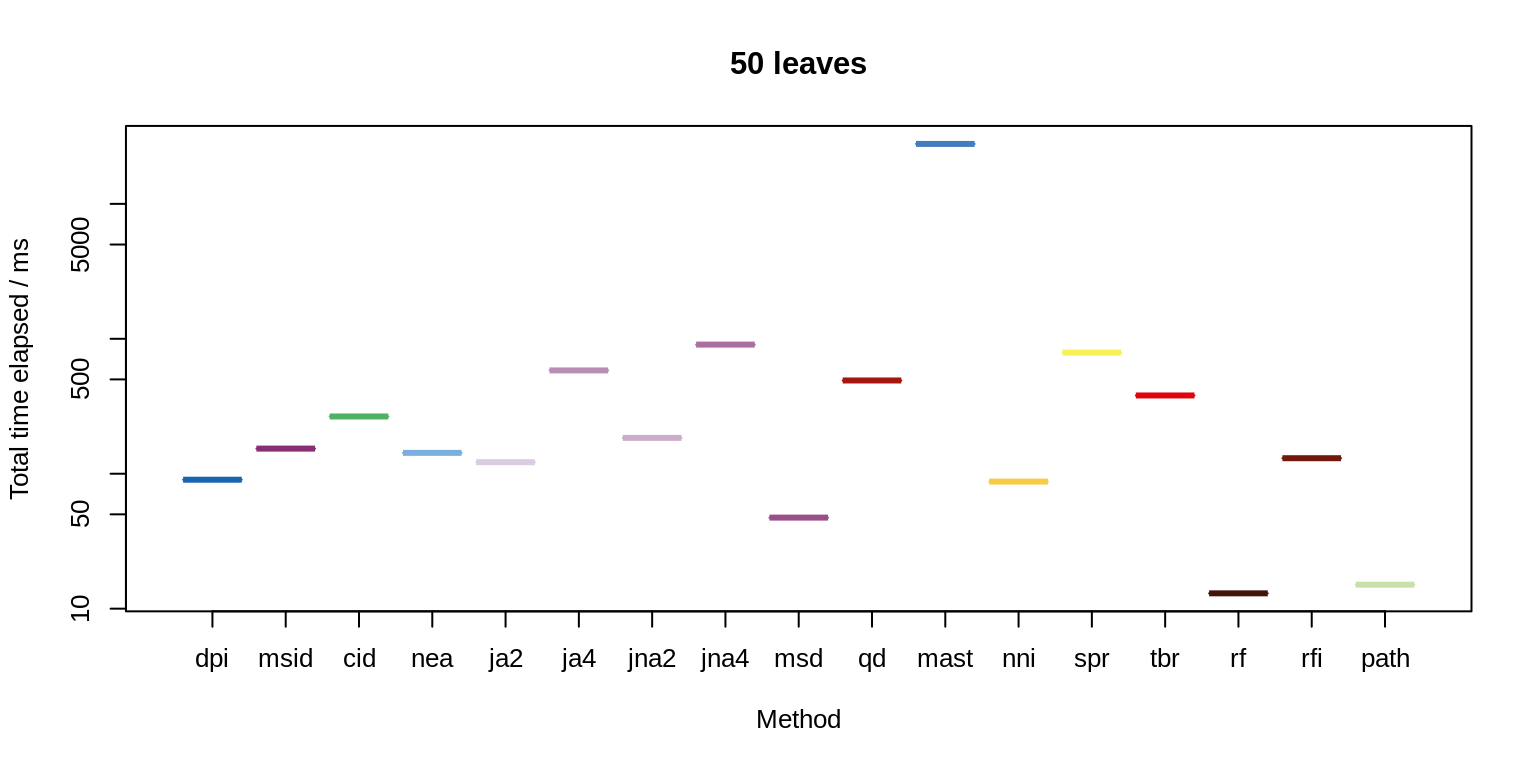
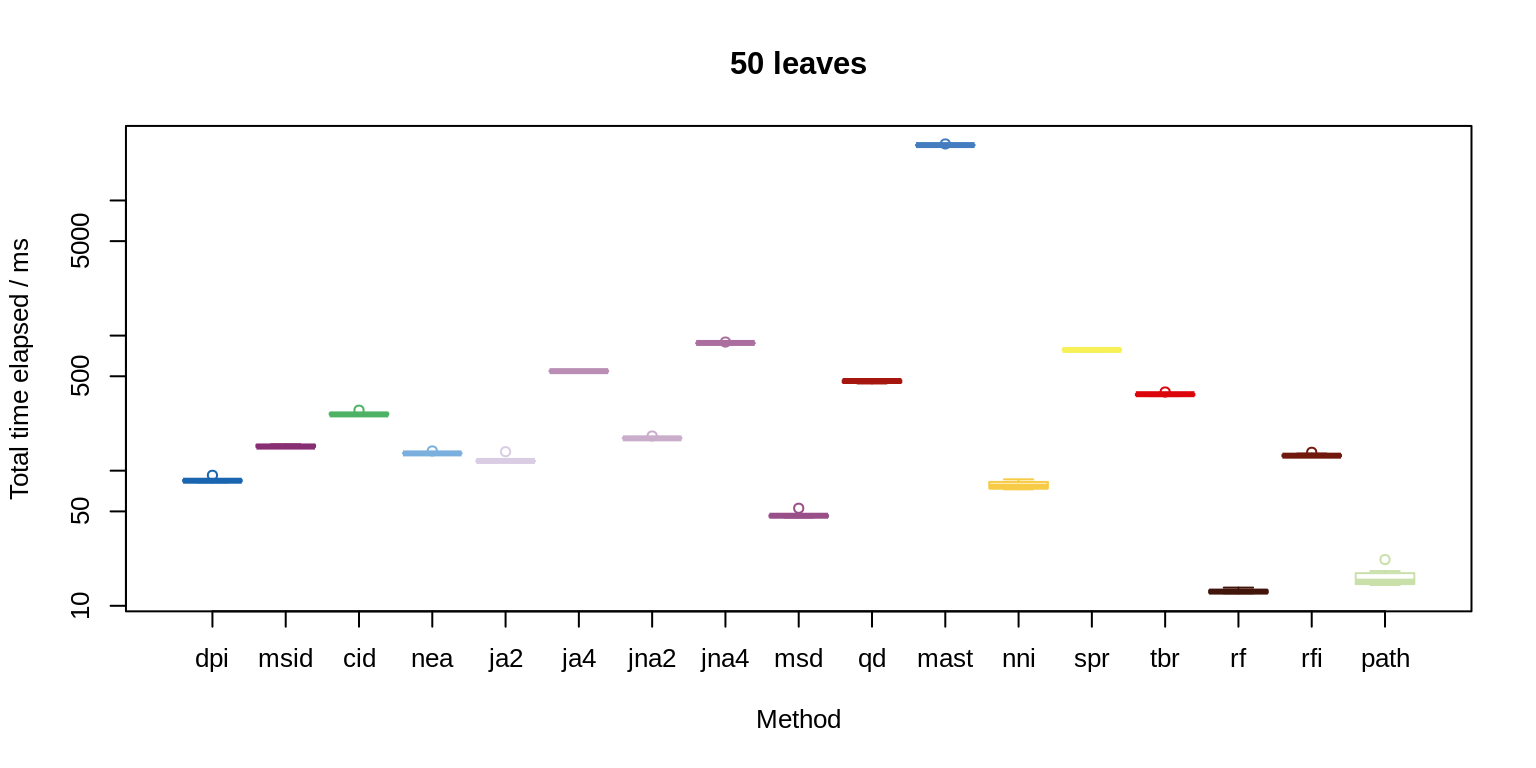
Built site for TreeDistData: 0.1.0@f60a707

diff --git a/articles/10-timing.html b/articles/10-timing.html
@@ -78,7 +78,7 @@
       <a href="../articles/08-spr-walking.html">1.9: Artificial tree rearrangement</a>
     </li>
     <li>
-      <a href="../articles/09-expected-similarity.html">2.2: Context tree distance values</a>
+      <a href="../articles/09-expected-similarity.html">2.2: Context: tree distance values</a>
     </li>
     <li>
       <a href="../articles/10-timing.html">4: Timing benchmarks</a>
@@ -128,7 +128,7 @@
 
     
     
-<p>The time taken to compare all 990 pairs of trees by each method, was calculated, replicating timing 1 times.</p>
+<p>The time taken to compare all 990 pairs of trees by each method, was calculated, replicating timing 10 times.</p>
 <p>The below are the results of a benchmarking exercise conducted on an Intel(R) Xeon(R) CPU machine with <!--2 cores and--> 8.57 TB of RAM, comparing 45 trees obtained by performing successive subtree pruning and regrafting rearrangements on a pectinate starting tree.<br>
 The values reported in Smith <span class="citation">(2020)</span> were calculated on a modest desktop computer, and will differ from those reported here, which will have been generated on the hardware system used to render the documentation.</p>
 <div id="figure" class="section level2">
@@ -149,89 +149,89 @@ The values reported in Smith <span class="citation">(2020)</span> were calculate
 </tr></thead>
 <tbody>
 <tr class="odd">
-<td>Path</td>
-<td align="right">11</td>
-<td align="right">15</td>
+<td>Robinson-Foulds</td>
+<td align="right">10</td>
+<td align="right">13</td>
 </tr>
 <tr class="even">
-<td>Robinson-Foulds</td>
+<td>Path</td>
 <td align="right">11</td>
-<td align="right">13</td>
+<td align="right">16</td>
 </tr>
 <tr class="odd">
 <td>Match. Split Dist.</td>
-<td align="right">19</td>
-<td align="right">48</td>
+<td align="right">17</td>
+<td align="right">47</td>
 </tr>
 <tr class="even">
 <td>Phylog. Info. Dist</td>
-<td align="right">26</td>
-<td align="right">91</td>
+<td align="right">22</td>
+<td align="right">86</td>
 </tr>
 <tr class="odd">
 <td>Match. Split Info Dist</td>
-<td align="right">27</td>
-<td align="right">160</td>
+<td align="right">23</td>
+<td align="right">150</td>
 </tr>
 <tr class="even">
 <td>Nye et al.</td>
-<td align="right">28</td>
+<td align="right">25</td>
 <td align="right">140</td>
 </tr>
 <tr class="odd">
 <td>JRF (k=2, arboreal)</td>
-<td align="right">30</td>
+<td align="right">25</td>
 <td align="right">120</td>
 </tr>
 <tr class="even">
 <td>JRF (k=2, non-arb.)</td>
 <td align="right">31</td>
-<td align="right">190</td>
+<td align="right">180</td>
 </tr>
 <tr class="odd">
 <td>Clust. Info. Dist.</td>
-<td align="right">46</td>
+<td align="right">42</td>
 <td align="right">270</td>
 </tr>
 <tr class="even">
 <td>Info. Corr. RF</td>
-<td align="right">48</td>
+<td align="right">47</td>
 <td align="right">130</td>
 </tr>
 <tr class="odd">
 <td>JRF (k=4, arboreal)</td>
-<td align="right">50</td>
-<td align="right">590</td>
+<td align="right">48</td>
+<td align="right">550</td>
 </tr>
 <tr class="even">
-<td>NNI (approx.)</td>
-<td align="right">66</td>
-<td align="right">88</td>
+<td>JRF (k=4, non-arb.)</td>
+<td align="right">57</td>
+<td align="right">890</td>
 </tr>
 <tr class="odd">
-<td>JRF (k=4, non-arb.)</td>
-<td align="right">72</td>
-<td align="right">910</td>
+<td>NNI (approx.)</td>
+<td align="right">60</td>
+<td align="right">79</td>
 </tr>
 <tr class="even">
 <td>SPR (approx.)</td>
-<td align="right">100</td>
-<td align="right">800</td>
+<td align="right">94</td>
+<td align="right">790</td>
 </tr>
 <tr class="odd">
 <td>TBR (approx.)</td>
-<td align="right">240</td>
-<td align="right">380</td>
+<td align="right">220</td>
+<td align="right">370</td>
 </tr>
 <tr class="even">
 <td>Quartet</td>
-<td align="right">300</td>
-<td align="right">500</td>
+<td align="right">260</td>
+<td align="right">460</td>
 </tr>
 <tr class="odd">
 <td>MAST size</td>
-<td align="right">7500</td>
-<td align="right">28000</td>
+<td align="right">6500</td>
+<td align="right">26000</td>
 </tr>
 </tbody>
 </table>

diff --git a/articles/09-expected-similarity.html b/articles/09-expected-similarity.html
@@ -5,12 +5,12 @@
 <meta charset="utf-8">
 <meta http-equiv="X-UA-Compatible" content="IE=edge">
 <meta name="viewport" content="width=device-width, initial-scale=1.0">
-<title>2.2: Context tree distance values • TreeDistData</title>
+<title>2.2: Context: tree distance values • TreeDistData</title>
 <!-- jquery --><script src="https://cdnjs.cloudflare.com/ajax/libs/jquery/3.3.1/jquery.min.js" integrity="sha256-FgpCb/KJQlLNfOu91ta32o/NMZxltwRo8QtmkMRdAu8=" crossorigin="anonymous"></script><!-- Bootstrap --><link rel="stylesheet" href="https://cdnjs.cloudflare.com/ajax/libs/twitter-bootstrap/3.3.7/css/bootstrap.min.css" integrity="sha256-916EbMg70RQy9LHiGkXzG8hSg9EdNy97GazNG/aiY1w=" crossorigin="anonymous">
 <script src="https://cdnjs.cloudflare.com/ajax/libs/twitter-bootstrap/3.3.7/js/bootstrap.min.js" integrity="sha256-U5ZEeKfGNOja007MMD3YBI0A3OSZOQbeG6z2f2Y0hu8=" crossorigin="anonymous"></script><!-- Font Awesome icons --><link rel="stylesheet" href="https://cdnjs.cloudflare.com/ajax/libs/font-awesome/5.7.1/css/all.min.css" integrity="sha256-nAmazAk6vS34Xqo0BSrTb+abbtFlgsFK7NKSi6o7Y78=" crossorigin="anonymous">
 <link rel="stylesheet" href="https://cdnjs.cloudflare.com/ajax/libs/font-awesome/5.7.1/css/v4-shims.min.css" integrity="sha256-6qHlizsOWFskGlwVOKuns+D1nB6ssZrHQrNj1wGplHc=" crossorigin="anonymous">
 <!-- clipboard.js --><script src="https://cdnjs.cloudflare.com/ajax/libs/clipboard.js/2.0.4/clipboard.min.js" integrity="sha256-FiZwavyI2V6+EXO1U+xzLG3IKldpiTFf3153ea9zikQ=" crossorigin="anonymous"></script><!-- headroom.js --><script src="https://cdnjs.cloudflare.com/ajax/libs/headroom/0.9.4/headroom.min.js" integrity="sha256-DJFC1kqIhelURkuza0AvYal5RxMtpzLjFhsnVIeuk+U=" crossorigin="anonymous"></script><script src="https://cdnjs.cloudflare.com/ajax/libs/headroom/0.9.4/jQuery.headroom.min.js" integrity="sha256-ZX/yNShbjqsohH1k95liqY9Gd8uOiE1S4vZc+9KQ1K4=" crossorigin="anonymous"></script><!-- pkgdown --><link href="../pkgdown.css" rel="stylesheet">
-<script src="../pkgdown.js"></script><meta property="og:title" content="2.2: Context tree distance values">
+<script src="../pkgdown.js"></script><meta property="og:title" content="2.2: Context: tree distance values">
 <meta property="og:description" content="">
 <meta name="twitter:card" content="summary">
 <!-- mathjax --><script src="https://cdnjs.cloudflare.com/ajax/libs/mathjax/2.7.5/MathJax.js" integrity="sha256-nvJJv9wWKEm88qvoQl9ekL2J+k/RWIsaSScxxlsrv8k=" crossorigin="anonymous"></script><script src="https://cdnjs.cloudflare.com/ajax/libs/mathjax/2.7.5/config/TeX-AMS-MML_HTMLorMML.js" integrity="sha256-84DKXVJXs0/F8OTMzX4UR909+jtl4G7SPypPavF+GfA=" crossorigin="anonymous"></script><!--[if lt IE 9]>
@@ -78,7 +78,7 @@
       <a href="../articles/08-spr-walking.html">1.9: Artificial tree rearrangement</a>
     </li>
     <li>
-      <a href="../articles/09-expected-similarity.html">2.2: Context tree distance values</a>
+      <a href="../articles/09-expected-similarity.html">2.2: Context: tree distance values</a>
     </li>
     <li>
       <a href="../articles/10-timing.html">4: Timing benchmarks</a>
@@ -115,7 +115,7 @@
       </header><div class="row">
   <div class="col-md-9 contents">
     <div class="page-header toc-ignore">
-      <h1>2.2: Context tree distance values</h1>
+      <h1>2.2: Context: tree distance values</h1>
                         <h4 class="author">Martin R. Smith</h4>
             
             <h4 class="date">2020-03-10</h4>
@@ -139,7 +139,7 @@
 <div id="ranges" class="section level2">
 <h2 class="hasAnchor">
 <a href="#ranges" class="anchor"></a>Ranges</h2>
-<p>Expressed as percentages of the median.</p>
+<p>Average range of distance between random trees with 20-200 leaves, expressed as percentages of the median.</p>
 <table class="table">
 <thead><tr class="header">
 <th></th>

diff --git a/articles/index.html b/articles/index.html
@@ -114,7 +114,7 @@
       <a href="../articles/08-spr-walking.html">1.9: Artificial tree rearrangement</a>
     </li>
     <li>
-      <a href="../articles/09-expected-similarity.html">2.2: Context tree distance values</a>
+      <a href="../articles/09-expected-similarity.html">2.2: Context: tree distance values</a>
     </li>
     <li>
       <a href="../articles/10-timing.html">4: Timing benchmarks</a>
@@ -167,7 +167,7 @@
         <li><a href="06-lin-cluster-recovery.html">1.7: Consistent cluster recovery</a></li>
         <li><a href="07-bullseye.html">1.8: Bullseye tests</a></li>
         <li><a href="08-spr-walking.html">1.9: Artificial tree rearrangement</a></li>
-        <li><a href="09-expected-similarity.html">2.2: Context tree distance values</a></li>
+        <li><a href="09-expected-similarity.html">2.2: Context: tree distance values</a></li>
         <li><a href="10-timing.html">4: Timing benchmarks</a></li>
         <li><a href="11-correlation.html">Supp. Figs: Metric correlation</a></li>
         <li><a href="X-heterogeneity.html">Heterogeneity</a></li>

diff --git a/reference/distanceDistributions.html b/reference/distanceDistributions.html
@@ -118,7 +118,7 @@ uniform distribution using ape::rtree(nTip, br=NULL)." />
       <a href="../articles/08-spr-walking.html">1.9: Artificial tree rearrangement</a>
     </li>
     <li>
-      <a href="../articles/09-expected-similarity.html">2.2: Context tree distance values</a>
+      <a href="../articles/09-expected-similarity.html">2.2: Context: tree distance values</a>
     </li>
     <li>
       <a href="../articles/10-timing.html">4: Timing benchmarks</a>

diff --git a/reference/randomTreePairs.html b/reference/randomTreePairs.html
@@ -117,7 +117,7 @@ distribution using ape::rtree(nTip, br = NULL)." />
       <a href="../articles/08-spr-walking.html">1.9: Artificial tree rearrangement</a>
     </li>
     <li>
-      <a href="../articles/09-expected-similarity.html">2.2: Context tree distance values</a>
+      <a href="../articles/09-expected-similarity.html">2.2: Context: tree distance values</a>
     </li>
     <li>
       <a href="../articles/10-timing.html">4: Timing benchmarks</a>

diff --git a/reference/randomTreeDistances.html b/reference/randomTreeDistances.html
@@ -118,7 +118,7 @@ ape::rtree(nTip, br=NULL)." />
       <a href="../articles/08-spr-walking.html">1.9: Artificial tree rearrangement</a>
     </li>
     <li>
-      <a href="../articles/09-expected-similarity.html">2.2: Context tree distance values</a>
+      <a href="../articles/09-expected-similarity.html">2.2: Context: tree distance values</a>
     </li>
     <li>
       <a href="../articles/10-timing.html">4: Timing benchmarks</a>

diff --git a/reference/bullseye.html b/reference/bullseye.html
@@ -117,7 +117,7 @@ Kuhner and Yamato (2015)." />
       <a href="../articles/08-spr-walking.html">1.9: Artificial tree rearrangement</a>
     </li>
     <li>
-      <a href="../articles/09-expected-similarity.html">2.2: Context tree distance values</a>
+      <a href="../articles/09-expected-similarity.html">2.2: Context: tree distance values</a>
     </li>
     <li>
       <a href="../articles/10-timing.html">4: Timing benchmarks</a>

diff --git a/reference/TreeDistData-package.html b/reference/TreeDistData-package.html
@@ -122,7 +122,7 @@ results." />
       <a href="../articles/08-spr-walking.html">1.9: Artificial tree rearrangement</a>
     </li>
     <li>
-      <a href="../articles/09-expected-similarity.html">2.2: Context tree distance values</a>
+      <a href="../articles/09-expected-similarity.html">2.2: Context: tree distance values</a>
     </li>
     <li>
       <a href="../articles/10-timing.html">4: Timing benchmarks</a>

diff --git a/news/index.html b/news/index.html
@@ -114,7 +114,7 @@
       <a href="../articles/08-spr-walking.html">1.9: Artificial tree rearrangement</a>
     </li>
     <li>
-      <a href="../articles/09-expected-similarity.html">2.2: Context tree distance values</a>
+      <a href="../articles/09-expected-similarity.html">2.2: Context: tree distance values</a>
     </li>
     <li>
       <a href="../articles/10-timing.html">4: Timing benchmarks</a>

diff --git a/reference/AllDists.html b/reference/AllDists.html
@@ -116,7 +116,7 @@
       <a href="../articles/08-spr-walking.html">1.9: Artificial tree rearrangement</a>
     </li>
     <li>
-      <a href="../articles/09-expected-similarity.html">2.2: Context tree distance values</a>
+      <a href="../articles/09-expected-similarity.html">2.2: Context: tree distance values</a>
     </li>
     <li>
       <a href="../articles/10-timing.html">4: Timing benchmarks</a>

diff --git a/reference/CompareAllTrees.html b/reference/CompareAllTrees.html
@@ -116,7 +116,7 @@
       <a href="../articles/08-spr-walking.html">1.9: Artificial tree rearrangement</a>
     </li>
     <li>
-      <a href="../articles/09-expected-similarity.html">2.2: Context tree distance values</a>
+      <a href="../articles/09-expected-similarity.html">2.2: Context: tree distance values</a>
     </li>
     <li>
       <a href="../articles/10-timing.html">4: Timing benchmarks</a>

diff --git a/reference/PairwiseDistances.html b/reference/PairwiseDistances.html
@@ -116,7 +116,7 @@
       <a href="../articles/08-spr-walking.html">1.9: Artificial tree rearrangement</a>
     </li>
     <li>
-      <a href="../articles/09-expected-similarity.html">2.2: Context tree distance values</a>
+      <a href="../articles/09-expected-similarity.html">2.2: Context: tree distance values</a>
     </li>
     <li>
       <a href="../articles/10-timing.html">4: Timing benchmarks</a>
